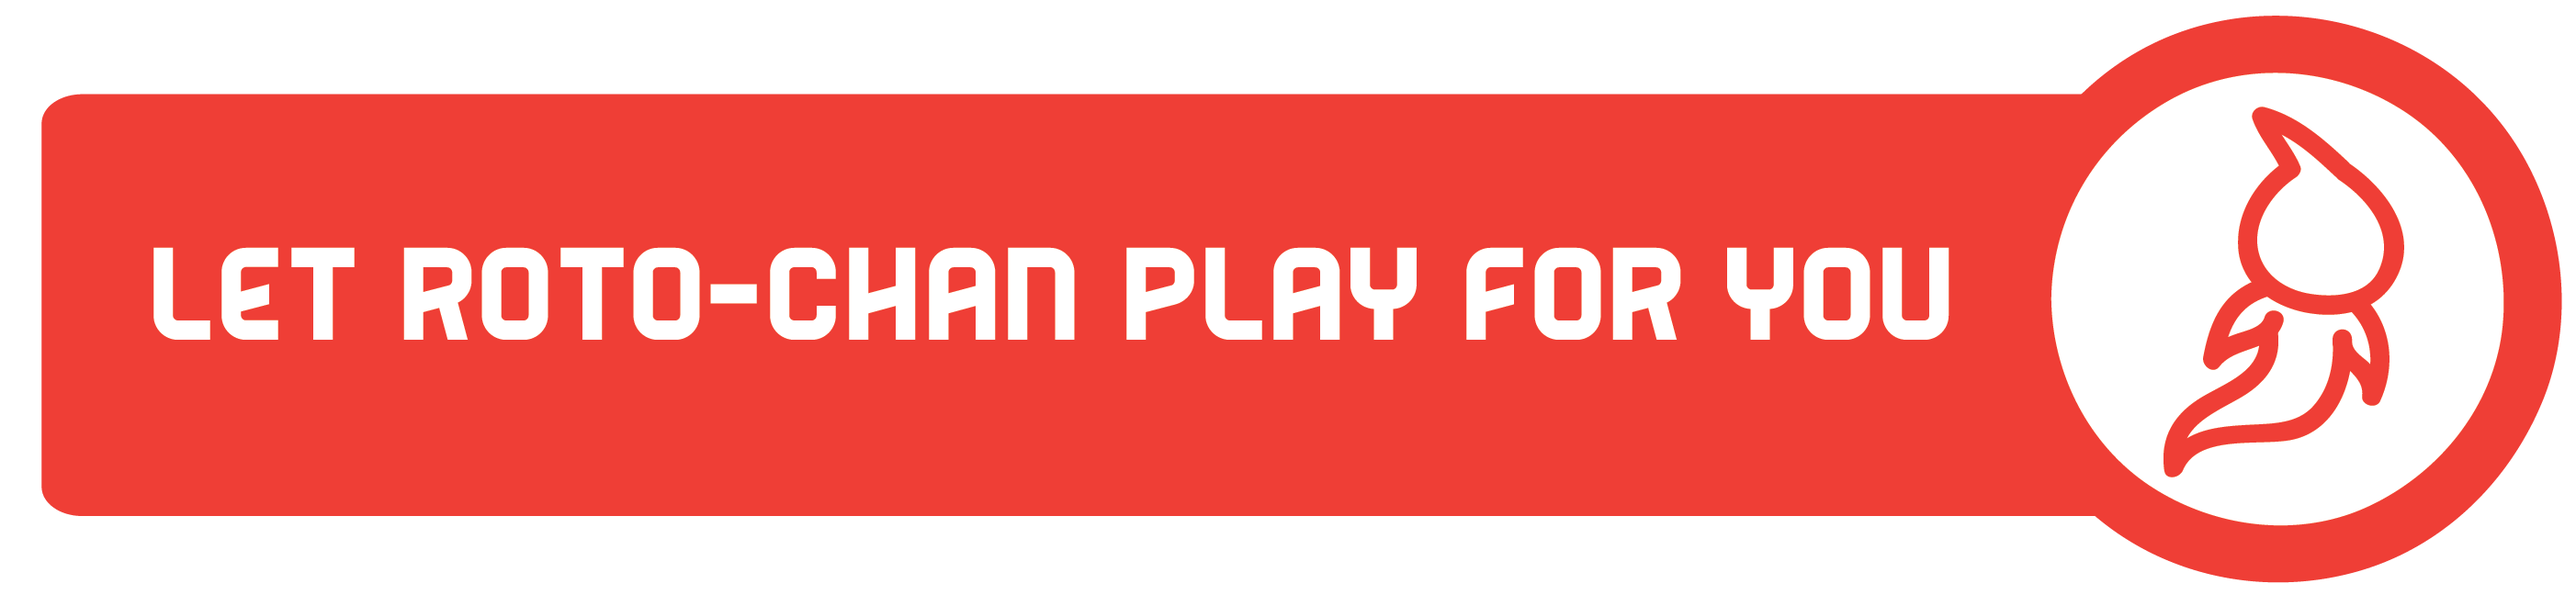
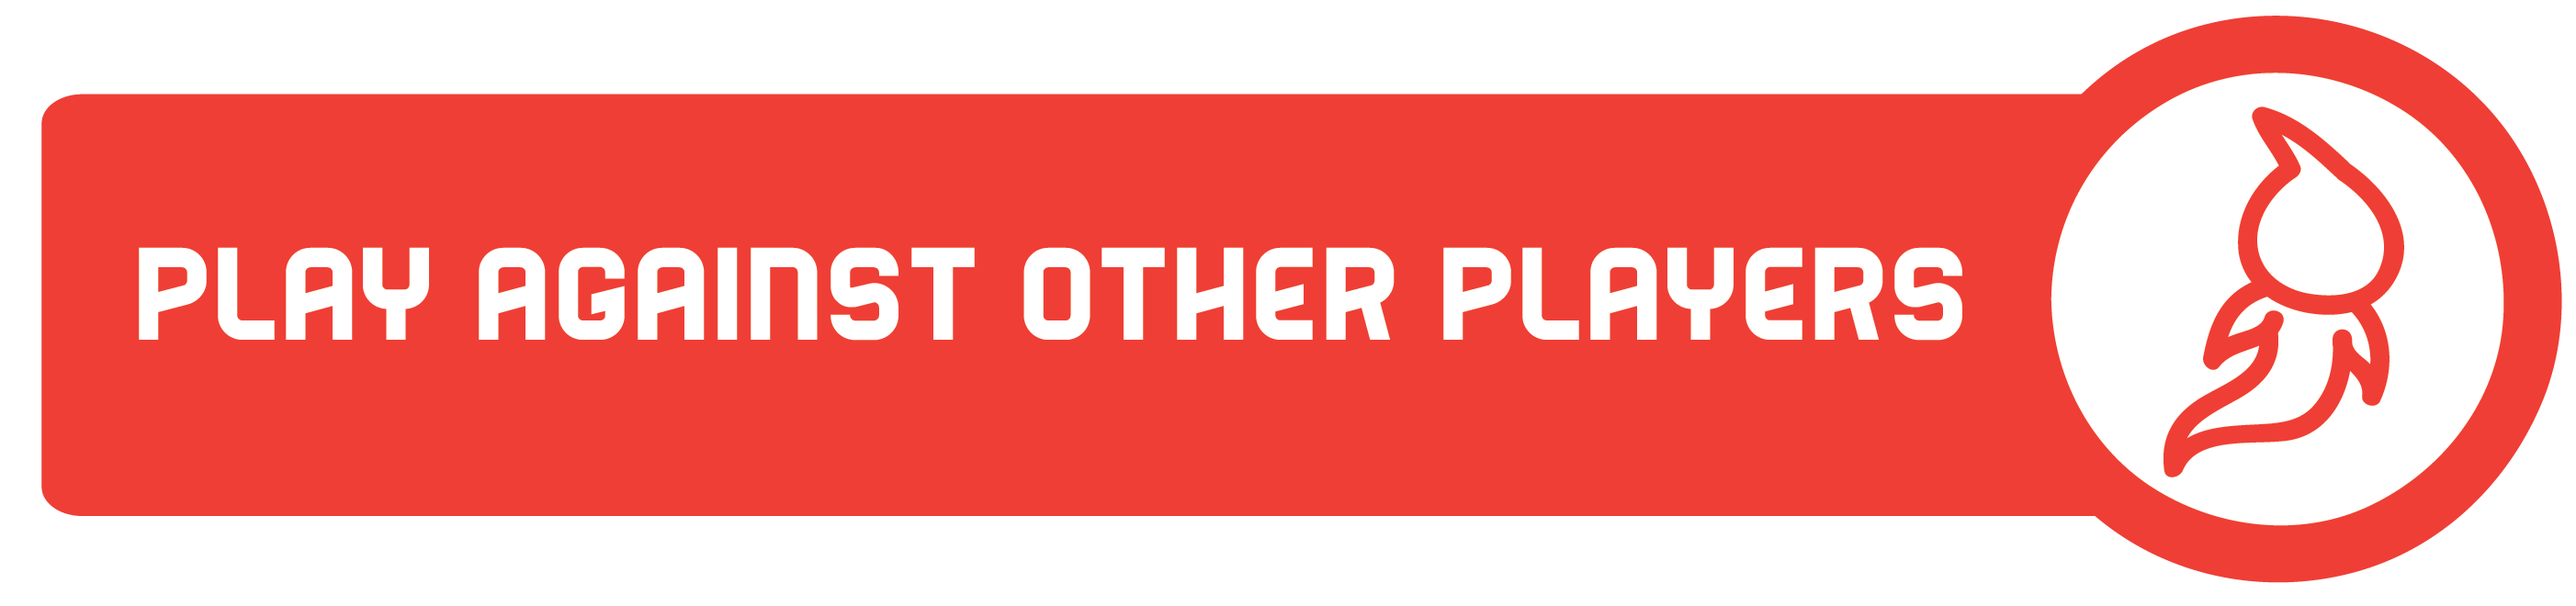
changed button image to 'play against other players'

Changed region(s): [[0.031, 0.3939, 0.7757, 0.5758]]

diff --git a/templates/index.html b/templates/index.html
@@ -26,10 +26,9 @@
 	      	<div class="row-fluid">
 	      		<div class="span6">
 				  <div class="top-pad-one">
-				    <p class="text"> Meet Roto-chan, an artificial intelligence (AI) bot for Pokemon battles.</p>
-				    <p>This site also integrates with the Pokemon Showdown client to fight other players online.</p>
-				    <p> Give Roto-chan a Pokemon team and watch it battle using the team...<br>
-				      or select a team and fight the AI bot yourself!</p>
+				    <p class="text"> Have Pokemon battles with people around the globe online!</p>
+				    <p>This site integrates with the Pokemon Showdown client.</p>
+				    <p> If you're daring enough, try selecting a team and fight our AI bot yourself!</p>
 				  </div>
 				</div>
 				<div class="span6">
